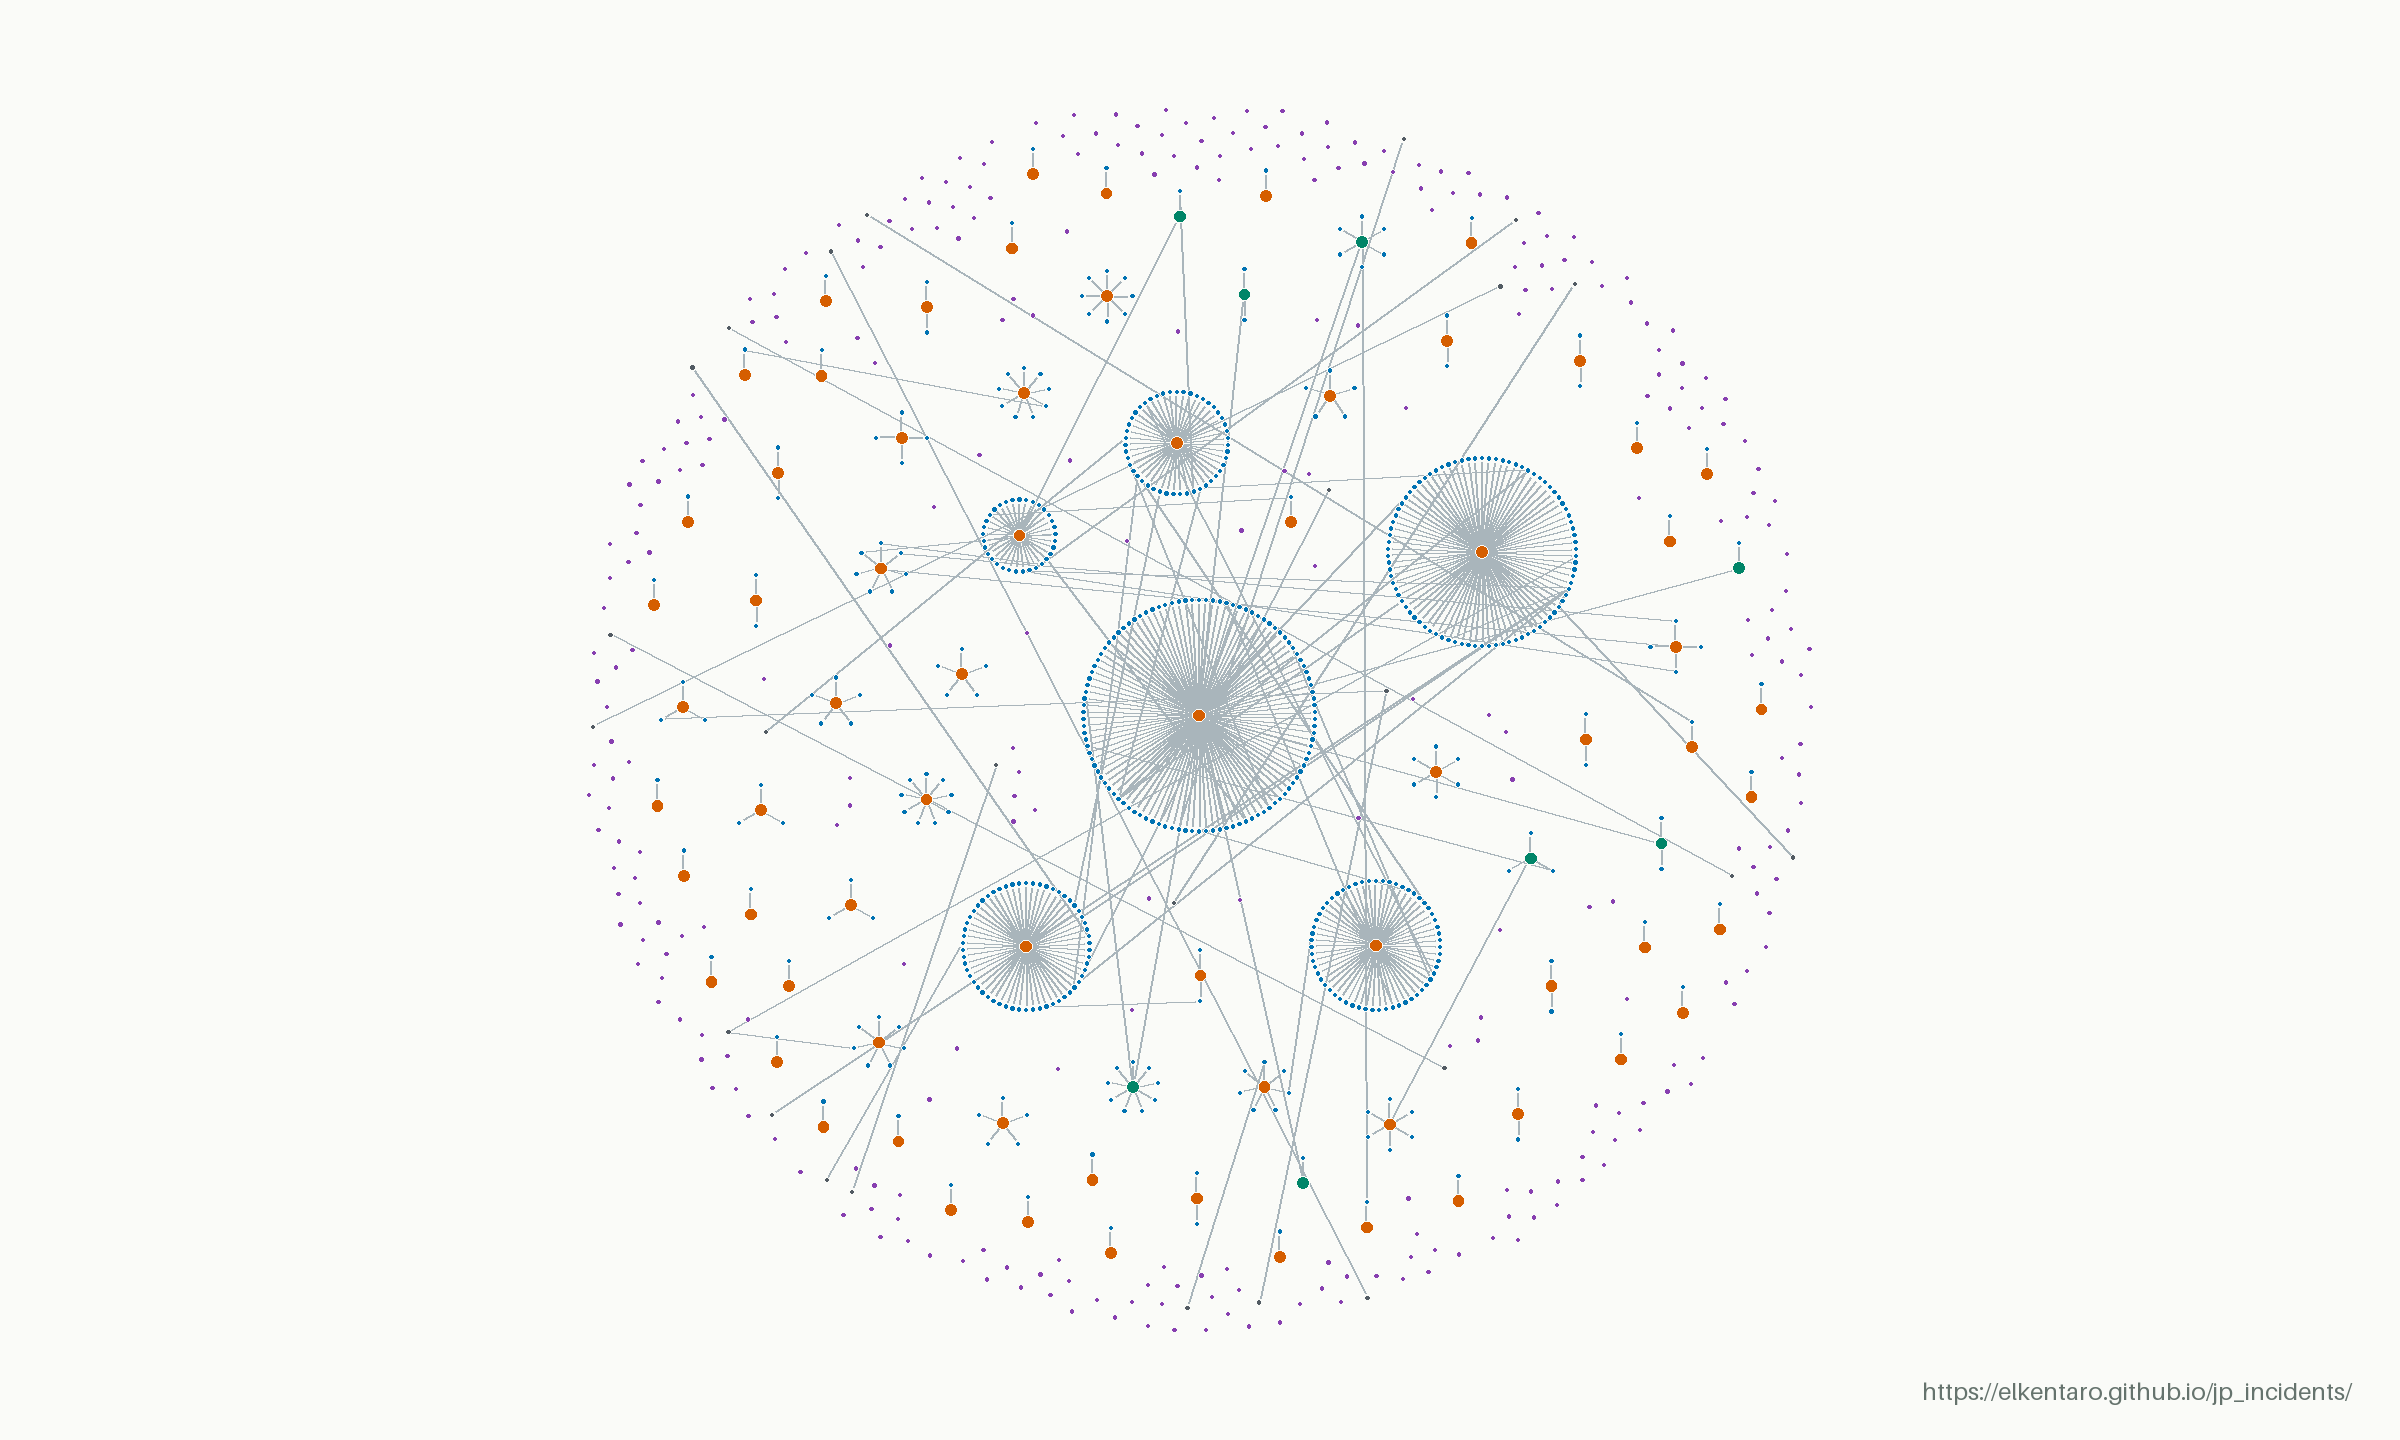
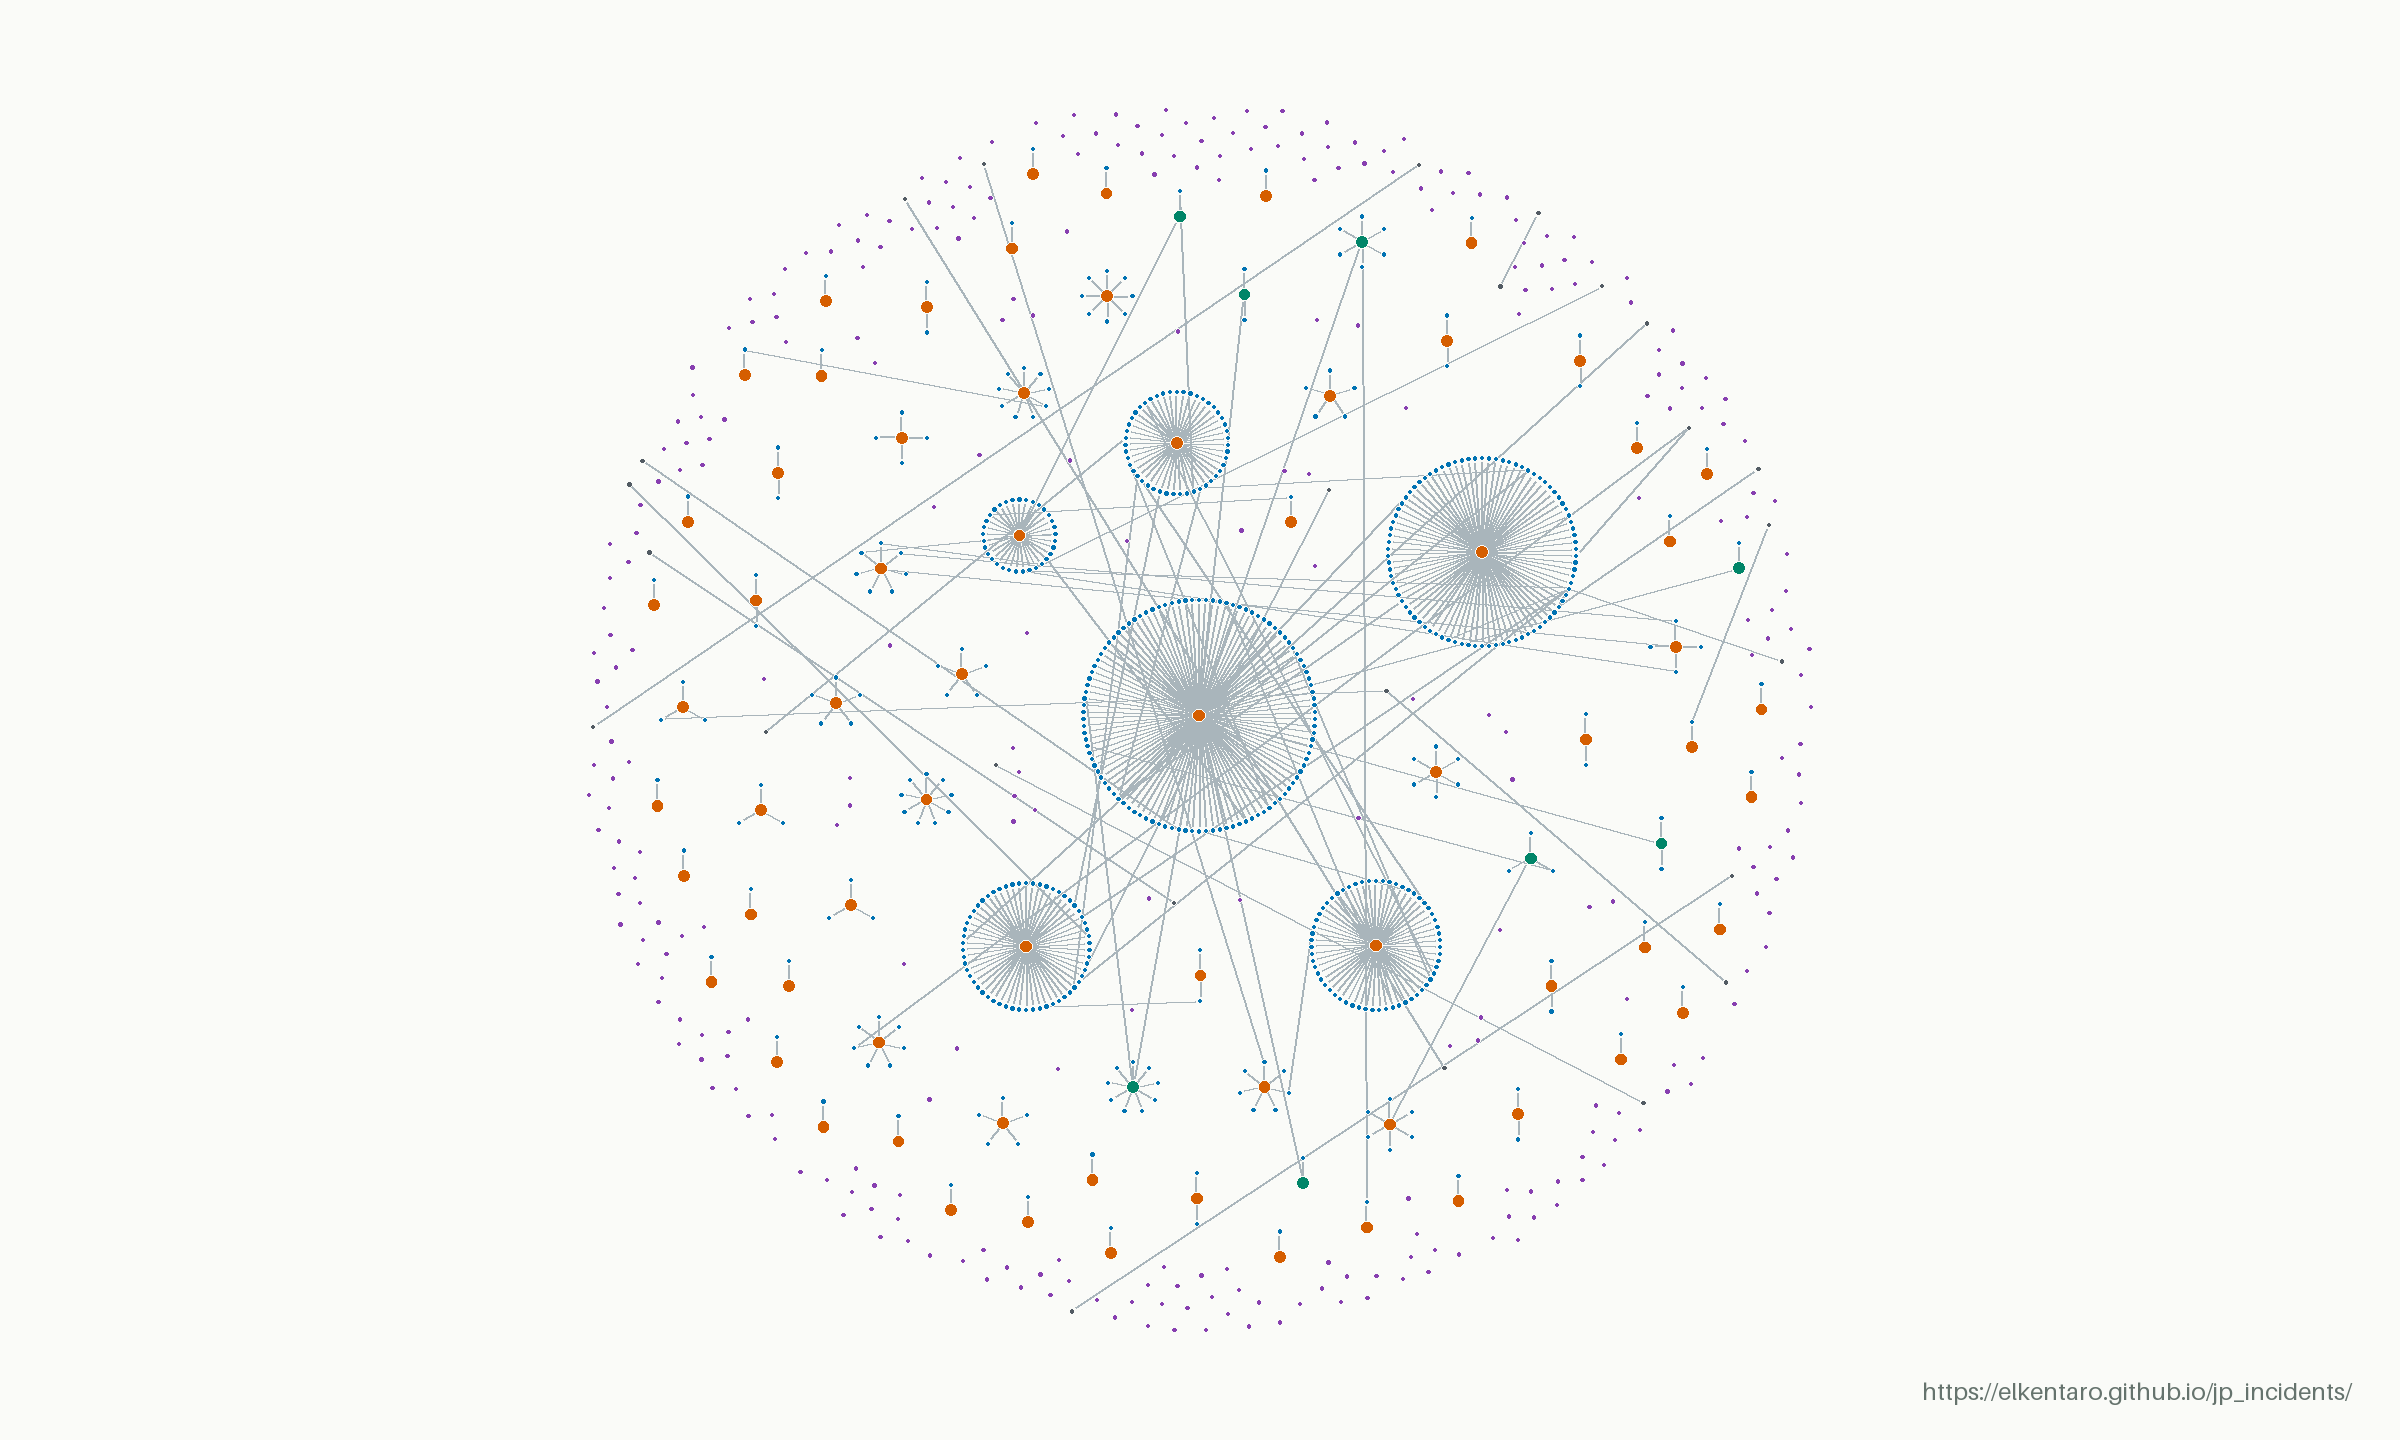
Update incident data (2026-11-08 12:13 UTC)

diff --git a/linkage.html b/linkage.html
@@ -32,15 +32,15 @@
     </section>
     <section class="direct-summary" aria-labelledby="direct-title">
       <dl class="direct-stats">
-        <div class="direct-total"><dt id="direct-title" data-copy="direct">Direct incidents</dt><dd id="direct-count">398</dd></div>
+        <div class="direct-total"><dt id="direct-title" data-copy="direct">Direct incidents</dt><dd id="direct-count">399</dd></div>
         <div><dt data-copy="directUpstream">Upstream incidents</dt><dd id="upstream-count">69</dd></div>
-        <div><dt data-copy="directStandalone">Standalone incidents</dt><dd id="standalone-count">329</dd></div>
+        <div><dt data-copy="directStandalone">Standalone incidents</dt><dd id="standalone-count">330</dd></div>
       </dl>
       <p class="direct-excluded"><strong id="downstream-count">574</strong> <span data-copy="directExcluded">downstream records excluded, including incidents with both roles.</span></p>
       <p class="direct-definition" data-copy="directDefinition">Direct incidents = upstream + standalone, based on recorded causal links. Standalone incidents have no upstream or downstream causal links, but may have other links, such as separate events at the same organization.</p>
     </section>
     <dl class="map-stats">
-      <div><dt data-copy="total">Incidents in snapshot</dt><dd>972</dd></div>
+      <div><dt data-copy="total">Incidents in snapshot</dt><dd>973</dd></div>
       <div><dt data-copy="linked">With recorded connections</dt><dd>668</dd></div>
       <div><dt data-copy="links">Recorded connections</dt><dd>626</dd></div>
       <div><dt data-copy="networks">Connected networks</dt><dd>61</dd></div>
@@ -50,13 +50,13 @@
         <img src="data/linkage-map.png" width="2400" height="1440" alt="Anonymized incident map. Orange upstream hubs connect to blue downstream incidents; purple unlinked incidents appear throughout the same map without connecting lines." data-copy-alt="alt">
       </div>
       <figcaption>
-        <div class="map-caption-meta"><span><span data-copy="updated">Last updated</span>: <time datetime="2026-11-08T10:15:46.733177+00:00">2026-11-08 10:15 UTC</time></span><a href="data/linkage-map.png" target="_blank" rel="noopener" data-copy="open">Open full-resolution image ↗</a></div>
+        <div class="map-caption-meta"><span><span data-copy="updated">Last updated</span>: <time datetime="2026-11-08T12:12:53.005010+00:00">2026-11-08 12:12 UTC</time></span><a href="data/linkage-map.png" target="_blank" rel="noopener" data-copy="open">Open full-resolution image ↗</a></div>
         <div class="map-key-section">
           <strong id="map-key-title" data-copy="key">Key</strong>
           <ul class="map-key" aria-labelledby="map-key-title">
             <li><span class="key-dot upstream" aria-hidden="true"></span><span data-copy="keyUpstream">Upstream</span></li>
             <li><span class="key-dot downstream" aria-hidden="true"></span><span data-copy="keyDownstream">Downstream</span></li>
-            <li><span class="key-dot standalone" aria-hidden="true"></span><span data-copy="keyStandalone">Unlinked</span><span>(304)</span></li>
+            <li><span class="key-dot standalone" aria-hidden="true"></span><span data-copy="keyStandalone">Unlinked</span><span>(305)</span></li>
             <li><span class="key-dot both" aria-hidden="true"></span><span data-copy="keyBoth">Both roles</span></li>
             <li><span class="key-dot related" aria-hidden="true"></span><span data-copy="keyRelated">Other related</span></li>
             <li><span class="key-line" aria-hidden="true"></span><span data-copy="keyRelationship">Recorded relationship</span></li>
@@ -69,7 +69,7 @@
       <section><h2 data-copy="readingTitle">Reading the map</h2><p data-copy="reading">Orange marks upstream incidents, blue downstream incidents, and purple unlinked incidents with no recorded connection. Teal marks incidents with both upstream and downstream roles; charcoal marks other related incidents. A missing connection does not establish that two incidents are unrelated.</p></section>
       <section><h2 data-copy="snapshotTitle">About this snapshot</h2><p data-copy="snapshot">The static image is refreshed when published incidents or relationships change, and at least every 24 hours during normal publication. Larger upstream clusters have extra spacing to keep their victims apart. Names, incident IDs, source links and incident dates are omitted; the connection pattern is retained. It is an overview of recorded relationships, not a complete map of cyber incidents in Japan.</p></section>
     </div>
-    <p class="map-source"><span data-copy="sourceUpdated">Source data updated</span>: <time datetime="2026-11-08T10:15:44+00:00">2026-11-08T10:15:44+00:00</time> · <a href="./" data-copy="browse">Browse the incident index</a></p>
+    <p class="map-source"><span data-copy="sourceUpdated">Source data updated</span>: <time datetime="2026-11-08T12:12:51+00:00">2026-11-08T12:12:51+00:00</time> · <a href="./" data-copy="browse">Browse the incident index</a></p>
   </main>
   <footer><div class="shell footer-inner"><p data-copy="footer">Public reports. Recorded relationships. An anonymized overview.</p><a href="./" data-copy="back">Back to incidents</a></div></footer>
   <script src="linkage.js?v=20261107-spacing" defer></script>
